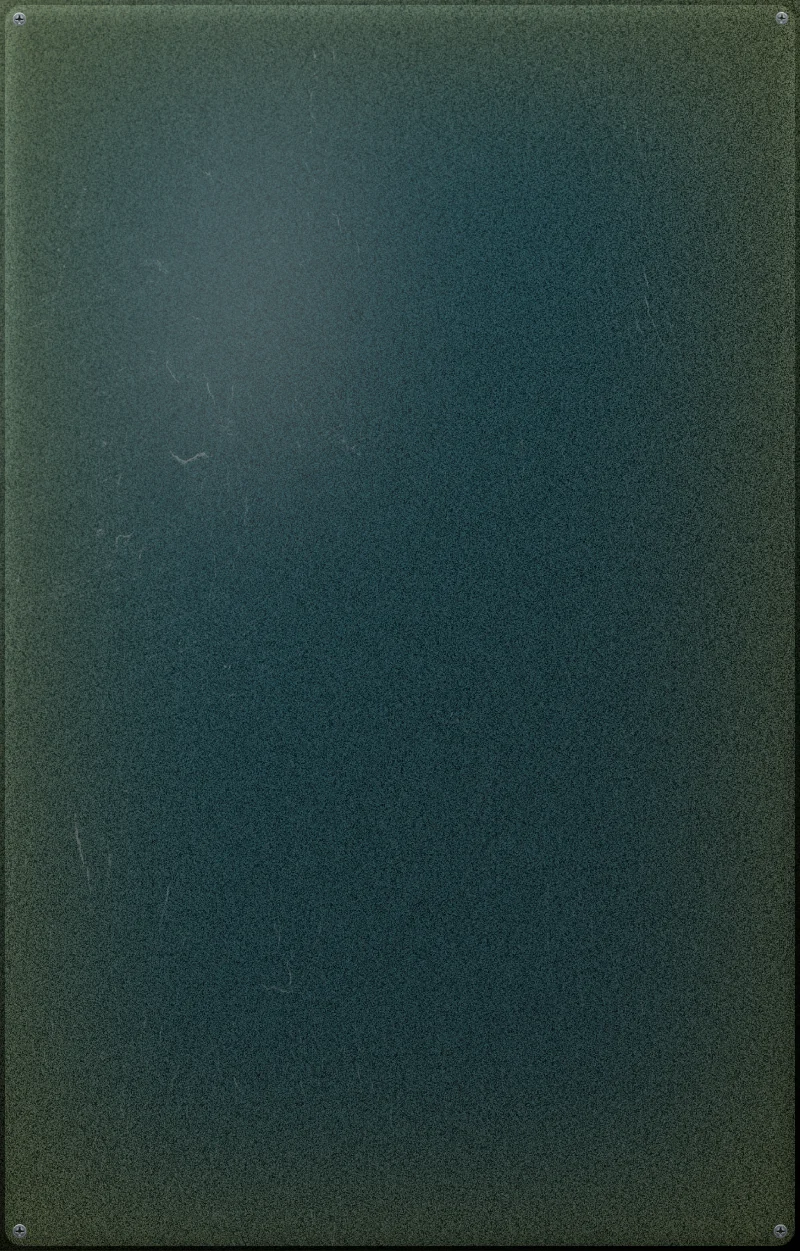
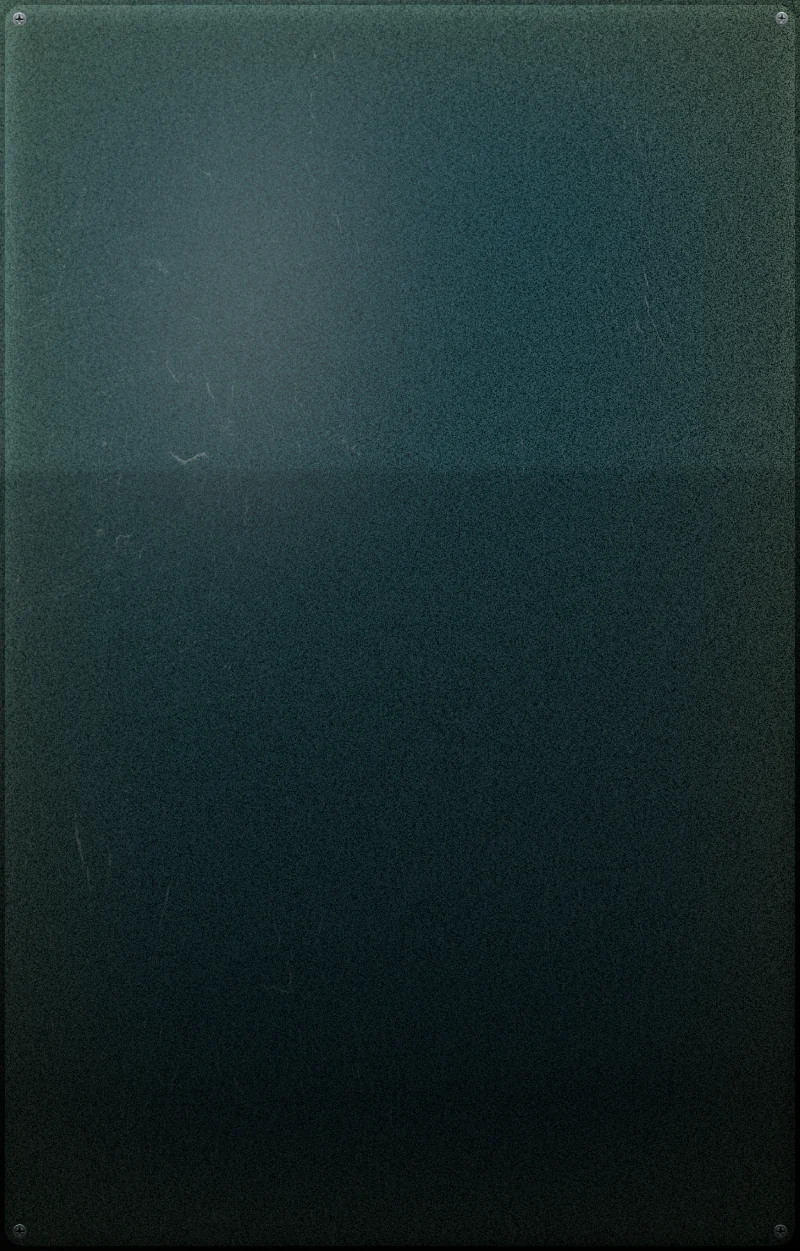
Release v0.1.22

diff --git a/styles/ouw25.css b/styles/ouw25.css
@@ -2122,7 +2122,7 @@ body.game .application.ouw25 .dialog-content .ouw25-bargain-payment label > span
   display: flex;
   justify-content: flex-end;
   align-items: center;
-  gap: 0.125rem;
+  gap: 0.1875rem;
   min-width: 0;
   text-align: right;
 }
